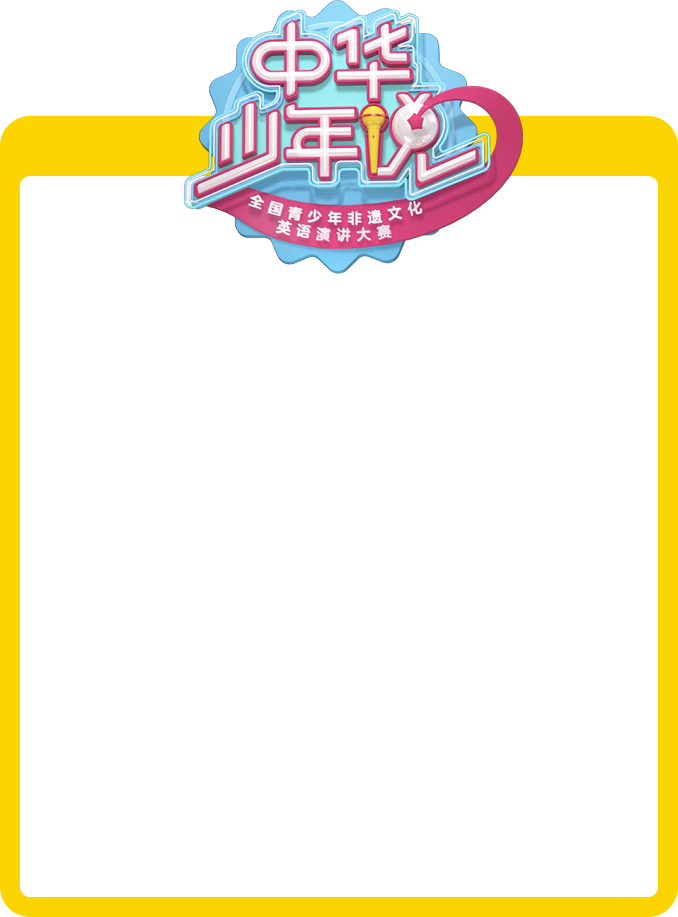
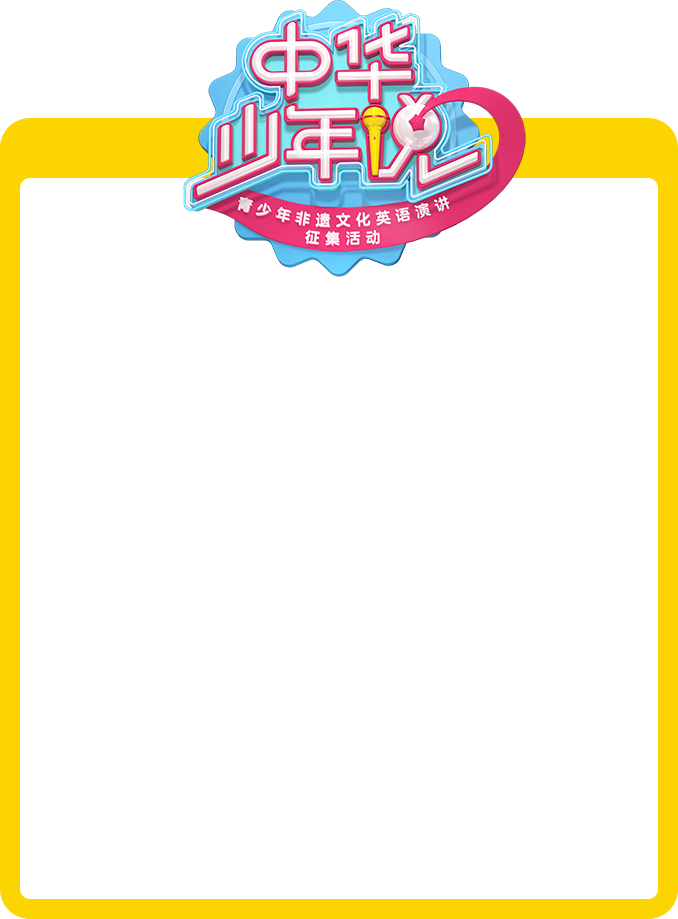
mod font

Changed region(s): [[0.2478, 0.0, 0.7743, 0.3053], [0.9602, 0.1221, 1.0, 0.1527], [0.0, 0.1221, 0.031, 0.1527]]

diff --git a/src/scss/index.scss b/src/scss/index.scss
@@ -83,7 +83,7 @@
     }
 
     .logo{
-        width: pxToRem(708px);
+        width: pxToRem(632px);
         height: pxToRem(510px);
         display: block;
         margin: 0 auto;

diff --git a/README.md b/README.md
@@ -81,6 +81,7 @@ gulp
 4. uploadVideo_2.html 页面添加初始化判断是否上传，及上传后转变成确认提交状态（uploadVideo_2.html、\static\images\uploadVideo\header3.png）
 5. 开屏进度条加载修改 （index.html、index.js）
 6. 好友助威邀请好友弹出层修改（common.js、cheerGuide.js）
+7. 首页、助威规则主办方文案修改（\static\images\index\host.png、\static\images\index\logo.png、\static\images\index\header.png、\static\images\rule\cheerRuleBackground.png、index.scss、rule.scss）
 
 
 #### 各个html对应页面：
